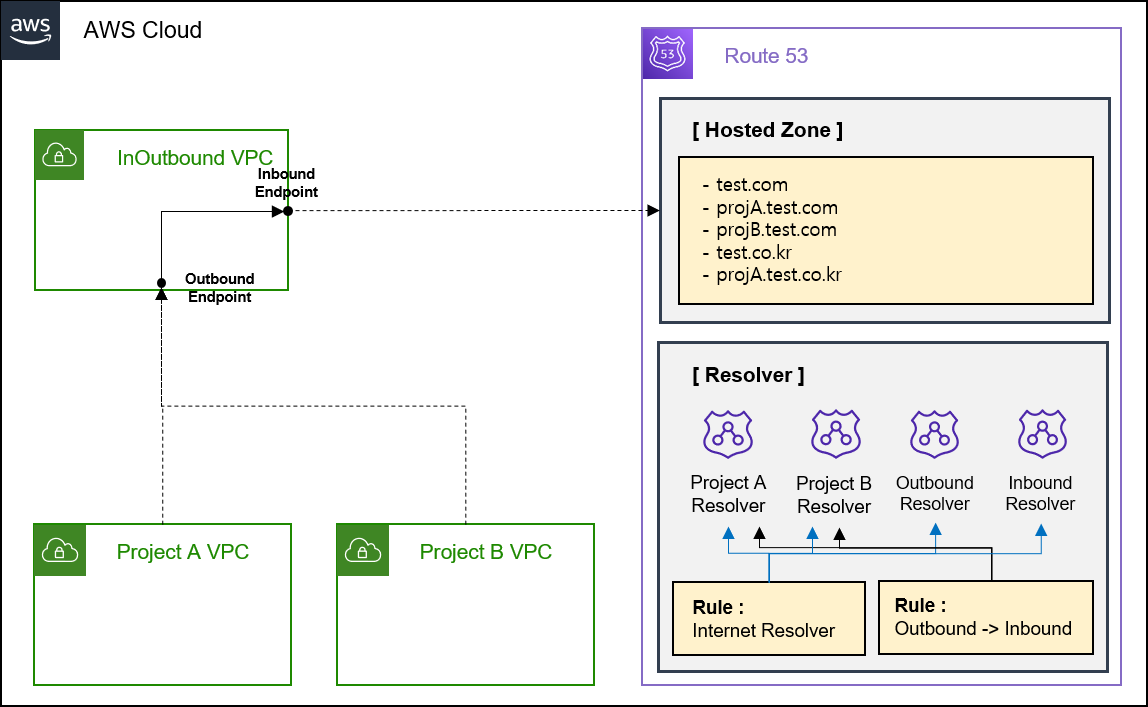
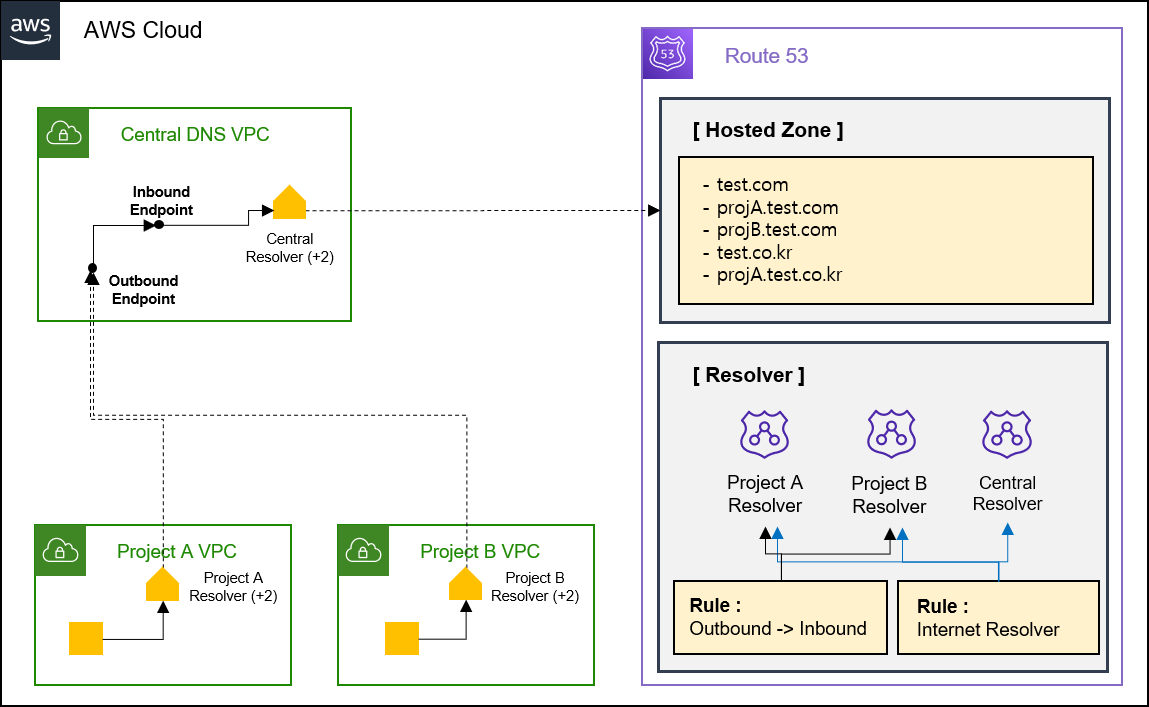
docs: Modify Route 53 bDNS Resolver

diff --git a/Cloud/AWS/Service/Route53.md b/Cloud/AWS/Service/Route53.md
@@ -201,6 +201,7 @@
 
 
 ## Route53 DNS Resolver
+* https://aws.amazon.com/ko/blogs/security/simplify-dns-management-in-a-multiaccount-environment-with-route-53-resolver/
 * VPC와 네트워크 간(On-premise, VPC, Route 53 Resolver) DNS Query 해석을 위해 사용.
 * 기본적으로 VPC를 생성하면 Route 53 Resolver는 자동으로 VPC용 DNS 서버(Amazon Route 53 Resolver)를 제공.
 </br>
@@ -232,6 +233,8 @@
 > 모든 규칙은 Rule에 의해 정의되기 때문에 Hosted Zone에 VPC를 연결할 필요가 없어진다. 즉, Hosted Zone에 대한 모든 VPC 관리는 Rule에 의해서만 관리된다.
 
 > Resolver를 사용할 Account들에게는 Rule만 공유하면 된다. AWS RAM을 이용하여 관리된다.
+
+> Resolver / Endpoint / Hosted Zone은 Private Link로 통신한다.
 
 </br>
 </br>

diff --git a/Network/Protocol/HTTPProtocol.md b/Network/Protocol/HTTPProtocol.md
@@ -68,9 +68,44 @@
 ```
 * 
 * ```Transfer-Encoding: chunked``` 인 경우, 생략된다.
+</br>
 
 
+### X-Forwarded-For
+```
+```
+* 
+* 
 
+</br>
+
+
+### 
+```
+```
+* 
+* 
+
+</br>
+
+
+### 
+```
+```
+* 
+* 
+
+</br>
+
+
+###
+```
+```
+* 
+* 
+
+</br>
+</br>
 
 
 
